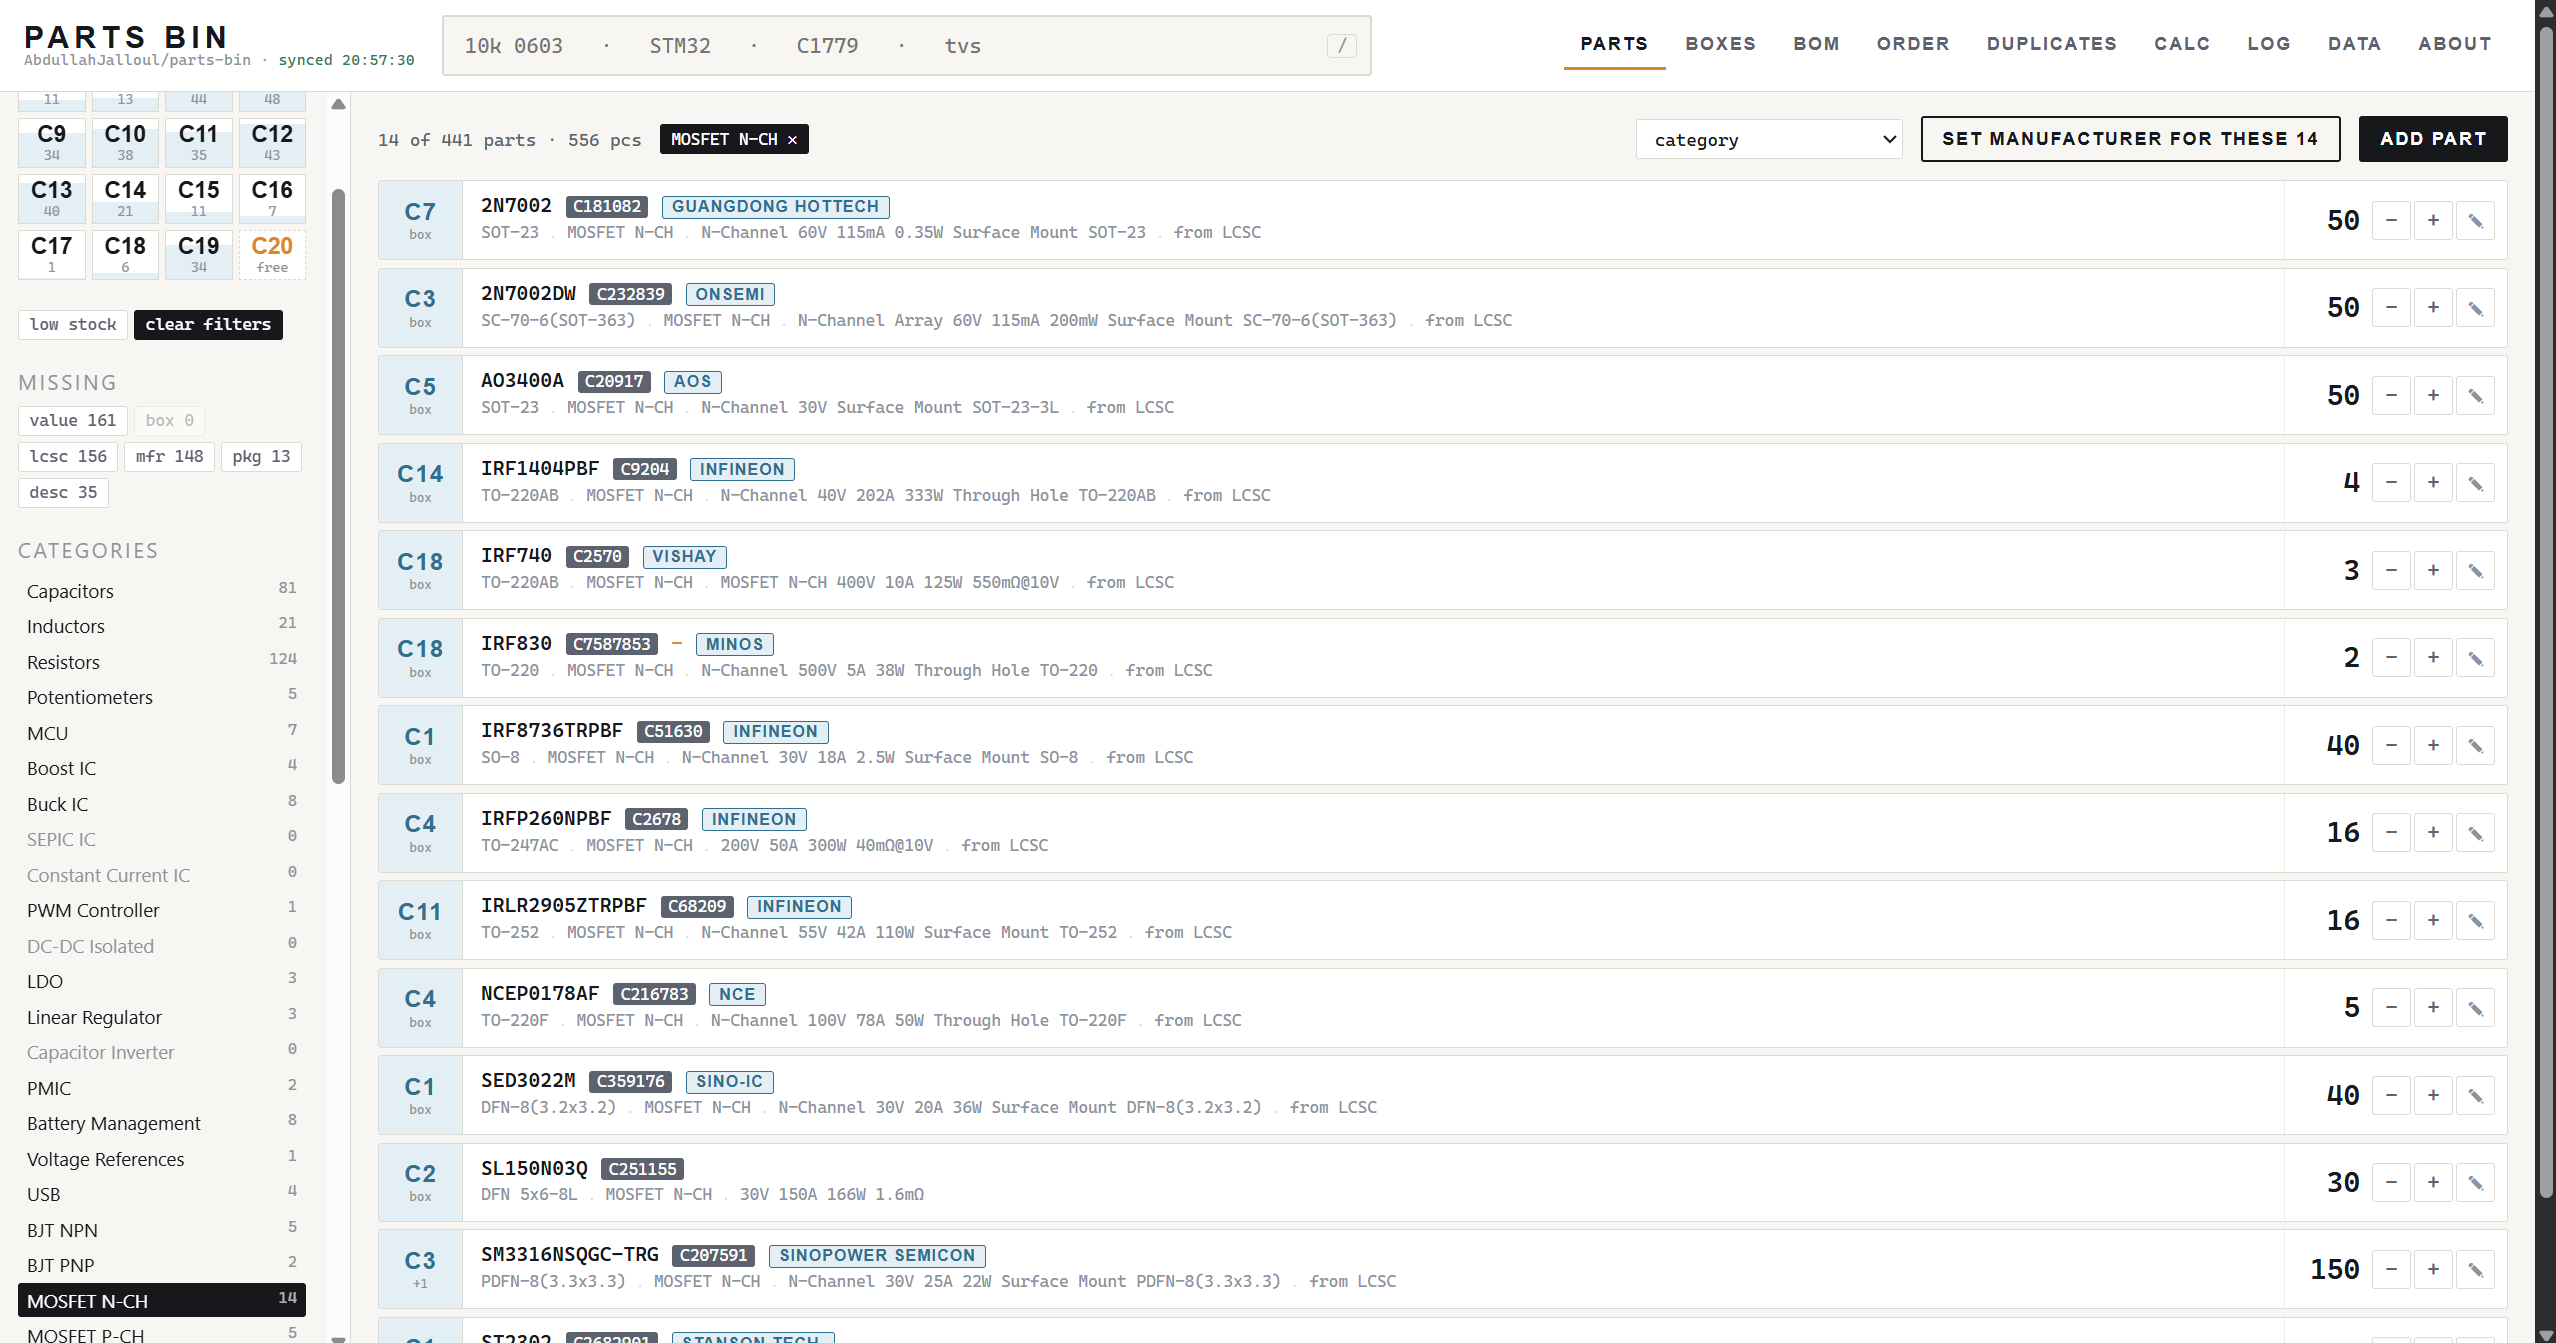
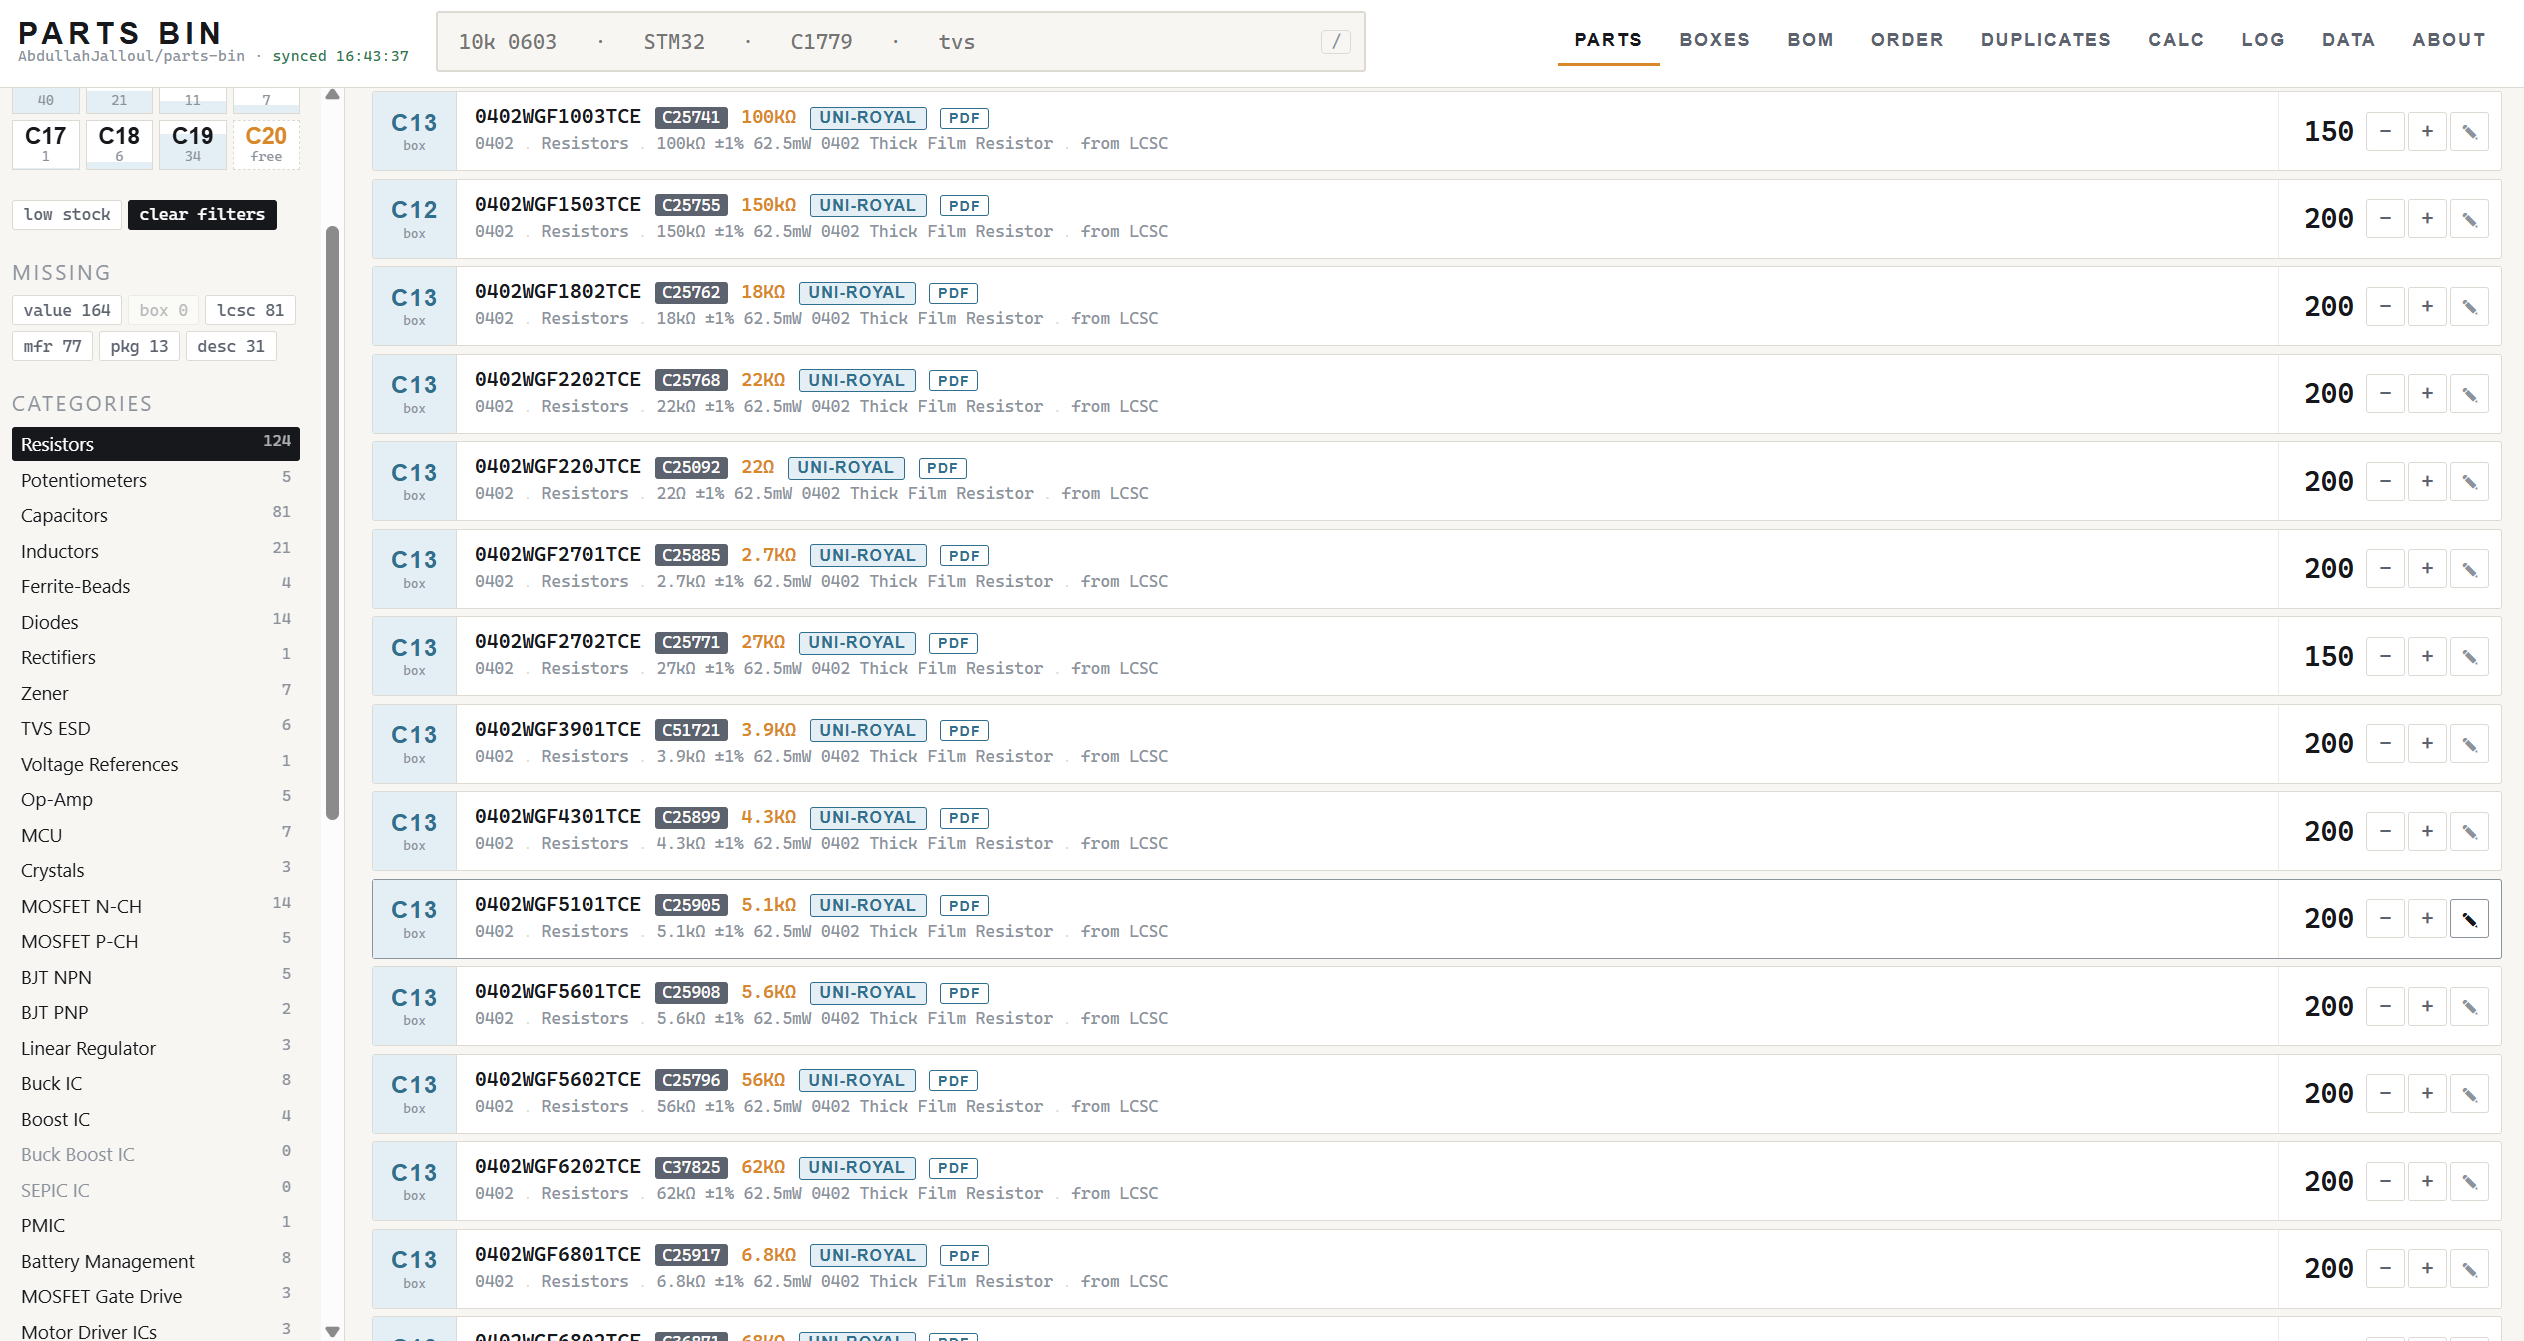
New screenshots, now that the rows carry datasheets
Both shots predate 1.6.0 and showed the app without a datasheet anywhere in
it. The parts list now has the PDF buttons on it and the editor shows the
field filled in by the lookup.

The caption under the editor shot said the datasheet was among the things
reported but not kept, which was true when it was written and is not any
more — it is saved with the part now. Stock and price are still only there to
tell you whether the part is worth ordering.

diff --git a/README.md b/README.md
@@ -77,10 +77,10 @@ Type an LCSC code (`C1779`) into the part editor and press **Fetch** — or just
 it looks the part up on its own. The manufacturer part number, manufacturer, package, value,
 description and category are read straight off LCSC.
 
-![Adding a part, filled in from its LCSC code](docs/AddPart.png)
+![A part filled in from its LCSC code](docs/AddPart.png)
 
-*Amber marks what the lookup just filled in. The line underneath reports the stock, the price and
-the datasheet — none of which is written into your bin, it is there to tell you whether the part is
+*Amber marks what the lookup just filled in, datasheet included. The stock and the price on the
+line underneath are not written into your bin — they are there to tell you whether the part is
 still worth ordering.*
 
 - **Only empty fields are filled.** Anything you have already written is left exactly as it is, and
